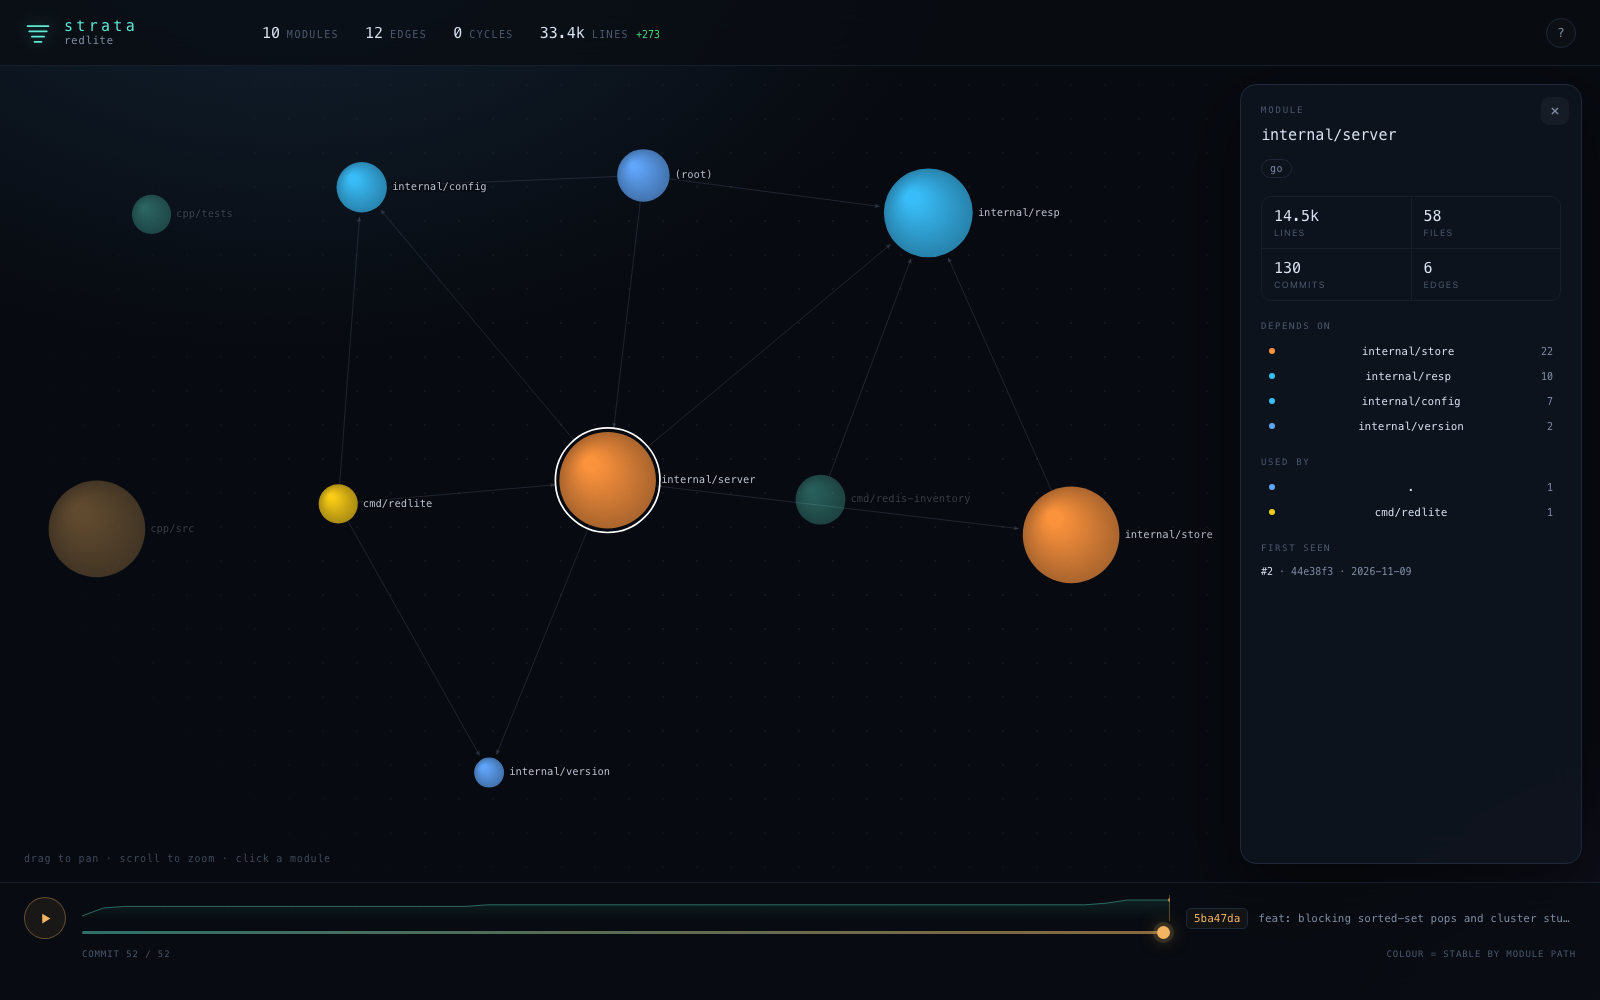
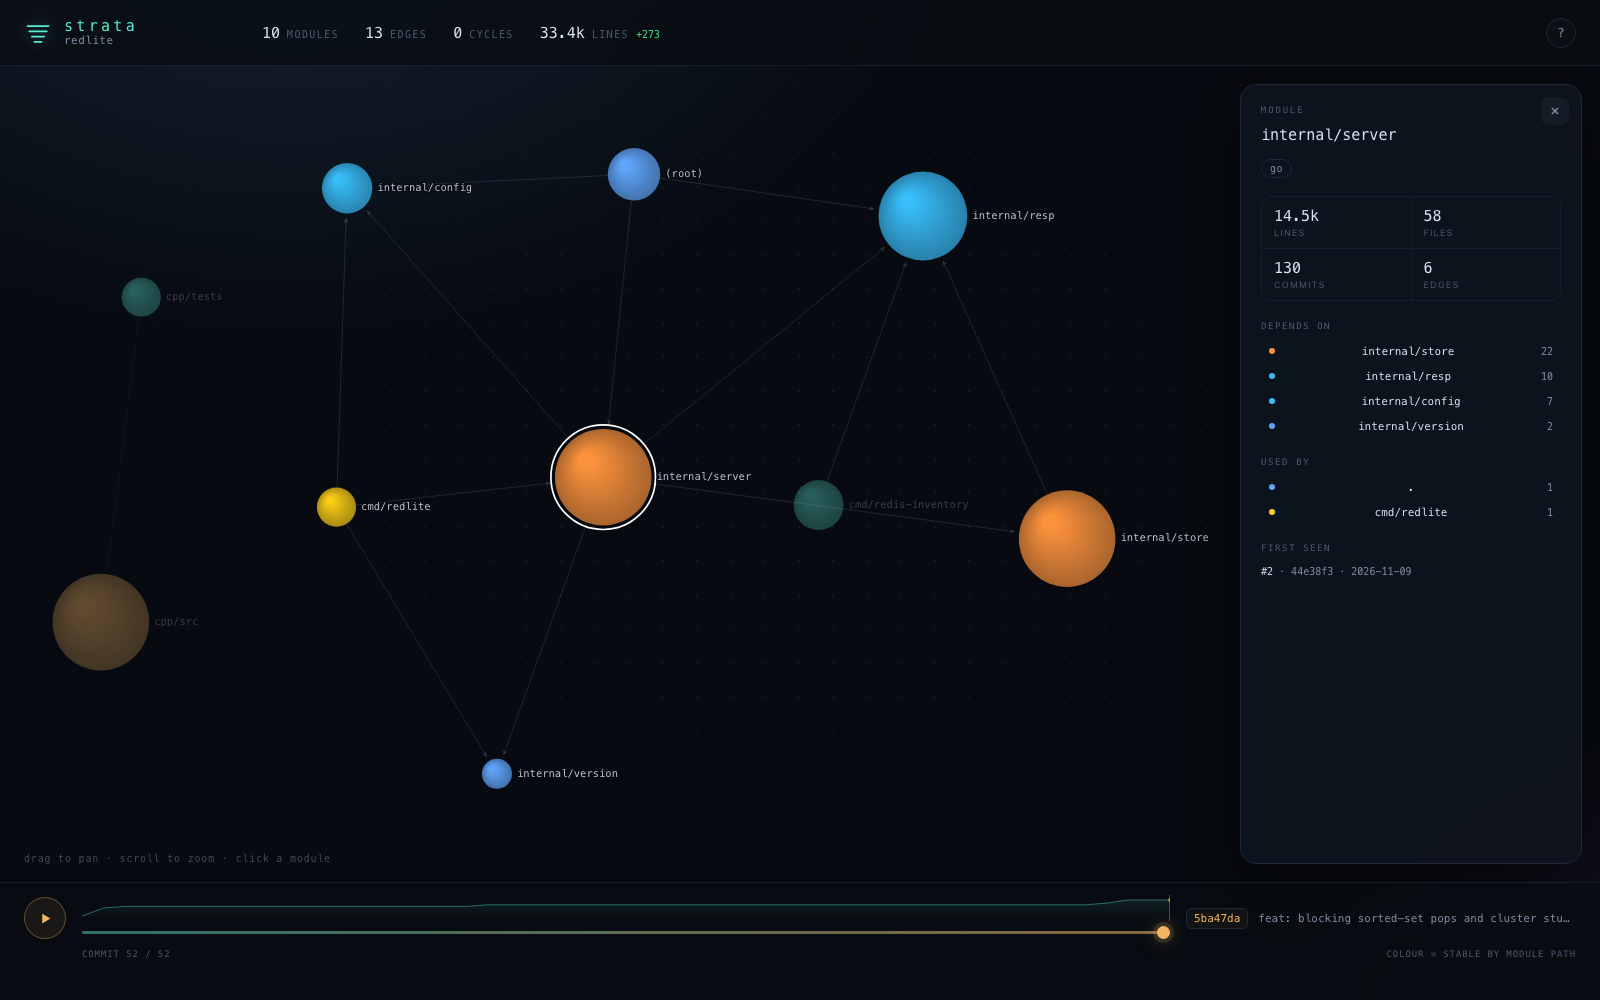
fix: resolve C++ includes through unique path suffixes
Projects that rely on include directories (-I) had no edges from a command to a header-only core. A unique suffix match restores them; ambiguous matches prefer the closest directory. Adds an end-to-end C++ fixture.

diff --git a/src/analyze.cpp b/src/analyze.cpp
@@ -55,11 +55,11 @@ bool hasFile(const std::set<std::string>& files, const std::string& path) {
 }
 
 // Resolves an import specifier to a directory that exists in this snapshot.
-std::string resolveImport(Lang lang, const std::string& file,
-                          const std::string& spec,
-                          const std::set<std::string>& files,
-                          const std::set<std::string>& dirs,
-                          const std::string& goModule) {
+std::string resolveImport(
+    Lang lang, const std::string& file, const std::string& spec,
+    const std::set<std::string>& files, const std::set<std::string>& dirs,
+    const std::string& goModule,
+    const std::map<std::string, std::vector<std::string>>& byName) {
   if (spec.empty()) return "";
   std::string fileDir = dirName(file);
 
@@ -121,7 +121,31 @@ std::string resolveImport(Lang lang, const std::string& file,
       std::string rooted = normalizePath(spec);
       if (hasFile(files, rooted)) return dirName(rooted);
       if (dirs.count(rooted)) return rooted;
-      return "";
+
+      // C and C++ projects commonly rely on include directories. Rather than
+      // parse a build system, accept a unique path suffix: `"core.hpp"` can
+      // mean `src/core.hpp`. Ambiguity is resolved toward the including file.
+      auto it = byName.find(baseName(spec));
+      if (it == byName.end()) return "";
+      const std::string suffix = "/" + spec;
+      const std::string* best = nullptr;
+      int bestScore = -1;
+      for (const auto& candidate : it->second) {
+        if (candidate != spec && !endsWith(candidate, suffix)) continue;
+        std::vector<std::string> left = split(fileDir, '/');
+        std::vector<std::string> right = split(dirName(candidate), '/');
+        int score = 0;
+        while (score < static_cast<int>(left.size()) &&
+               score < static_cast<int>(right.size()) &&
+               left[score] == right[score]) {
+          ++score;
+        }
+        if (score > bestScore) {
+          bestScore = score;
+          best = &candidate;
+        }
+      }
+      return best ? dirName(*best) : "";
     }
 
     case Lang::Rust: {
@@ -194,7 +218,10 @@ Graph buildGraph(const Git& git, const std::string& sha,
   }
 
   std::map<std::string, std::map<Lang, int>> languageLoc;
+  std::map<std::string, std::vector<std::string>> byName;
   std::vector<SourceFile> sources;
+
+  for (const auto& path : files) byName[baseName(path)].push_back(path);
 
   for (const auto& entry : entries) {
     Lang lang = detectLang(entry.path);
@@ -232,7 +259,7 @@ Graph buildGraph(const Git& git, const std::string& sha,
     const std::string from = dirName(source.path);
     for (const auto& spec : source.imports) {
       std::string target = resolveImport(source.lang, source.path, spec, files, dirs,
-                                         goModule);
+                                         goModule, byName);
       if (target.empty() || target == from) continue;
       graph.addEdge(from, target, 1);
     }

diff --git a/README.md b/README.md
@@ -196,7 +196,7 @@ executed. Paths are resolved to directories, which become graph nodes.
 | Go | `import` blocks and single imports | `go.mod` module path, package directories |
 | TypeScript / JavaScript | `import ... from`, `export ... from`, `require()`, dynamic `import()` | relative paths, extensions, `index.*` |
 | Python | `import`, `from ... import` | relative dots, packages, `__init__.py` |
-| C / C++ | `#include "..."` | file-relative, repository-relative |
+| C / C++ | `#include "..."` | file-relative, repository-relative, unique path suffix |
 | Rust | `mod`, `use crate::`, `use self::`, `use super::` | `src/` layout, `mod.rs` |
 | Java / Kotlin | `import ...;` | package paths |
 
@@ -235,7 +235,8 @@ Known limits, all on the [roadmap](ROADMAP.md):
 - Nodes are directories. A flat `src/` collapses into a single node; projects
   with subdirectories produce the most useful graphs.
 - Import resolution is heuristic. TypeScript path aliases, Go build tags,
-  C++ include directories, and conditional imports are not modelled yet.
+  and conditional imports are not modelled yet. C++ include directories are
+  approximated by a unique path suffix.
 - History is first-parent. Merge commits are frames, but side-branch commits
   are not ingested.
 - Configuration is read from the working tree, not from the commit being

diff --git a/docs/design.md b/docs/design.md
@@ -80,13 +80,18 @@ The extractors are intentionally small scans, not parsers:
   dots for relative imports. Multi-line backslash continuations are handled at
   the line level.
 - **C/C++**: `#include "local.h"` only. Angle-bracket includes are treated as
-  system headers and ignored.
+  system headers and ignored. A unique path suffix stands in for include
+  directories.
 - **Rust**: `mod name;`, `use crate::…`, `use self::…`, `use super::…`.
 - **Java/Kotlin**: `import` statements, including `static` imports.
 
 The resolver is deliberately conservative: a relative TypeScript specifier must
 match a real file (with a known extension or `index.*`), a Go import must start
-with the module path, and an unresolved specifier produces no edge.
+with the module path, and an unresolved specifier produces no edge. C and C++
+are the exception: after exact file-relative and root-relative lookups, a unique
+path suffix is accepted (`"core.hpp"` may mean `src/core.hpp`), because most C++
+builds add include directories. If several files match, the candidate whose
+directory shares the longest prefix with the including file wins.
 
 ## Ratchet semantics
 
